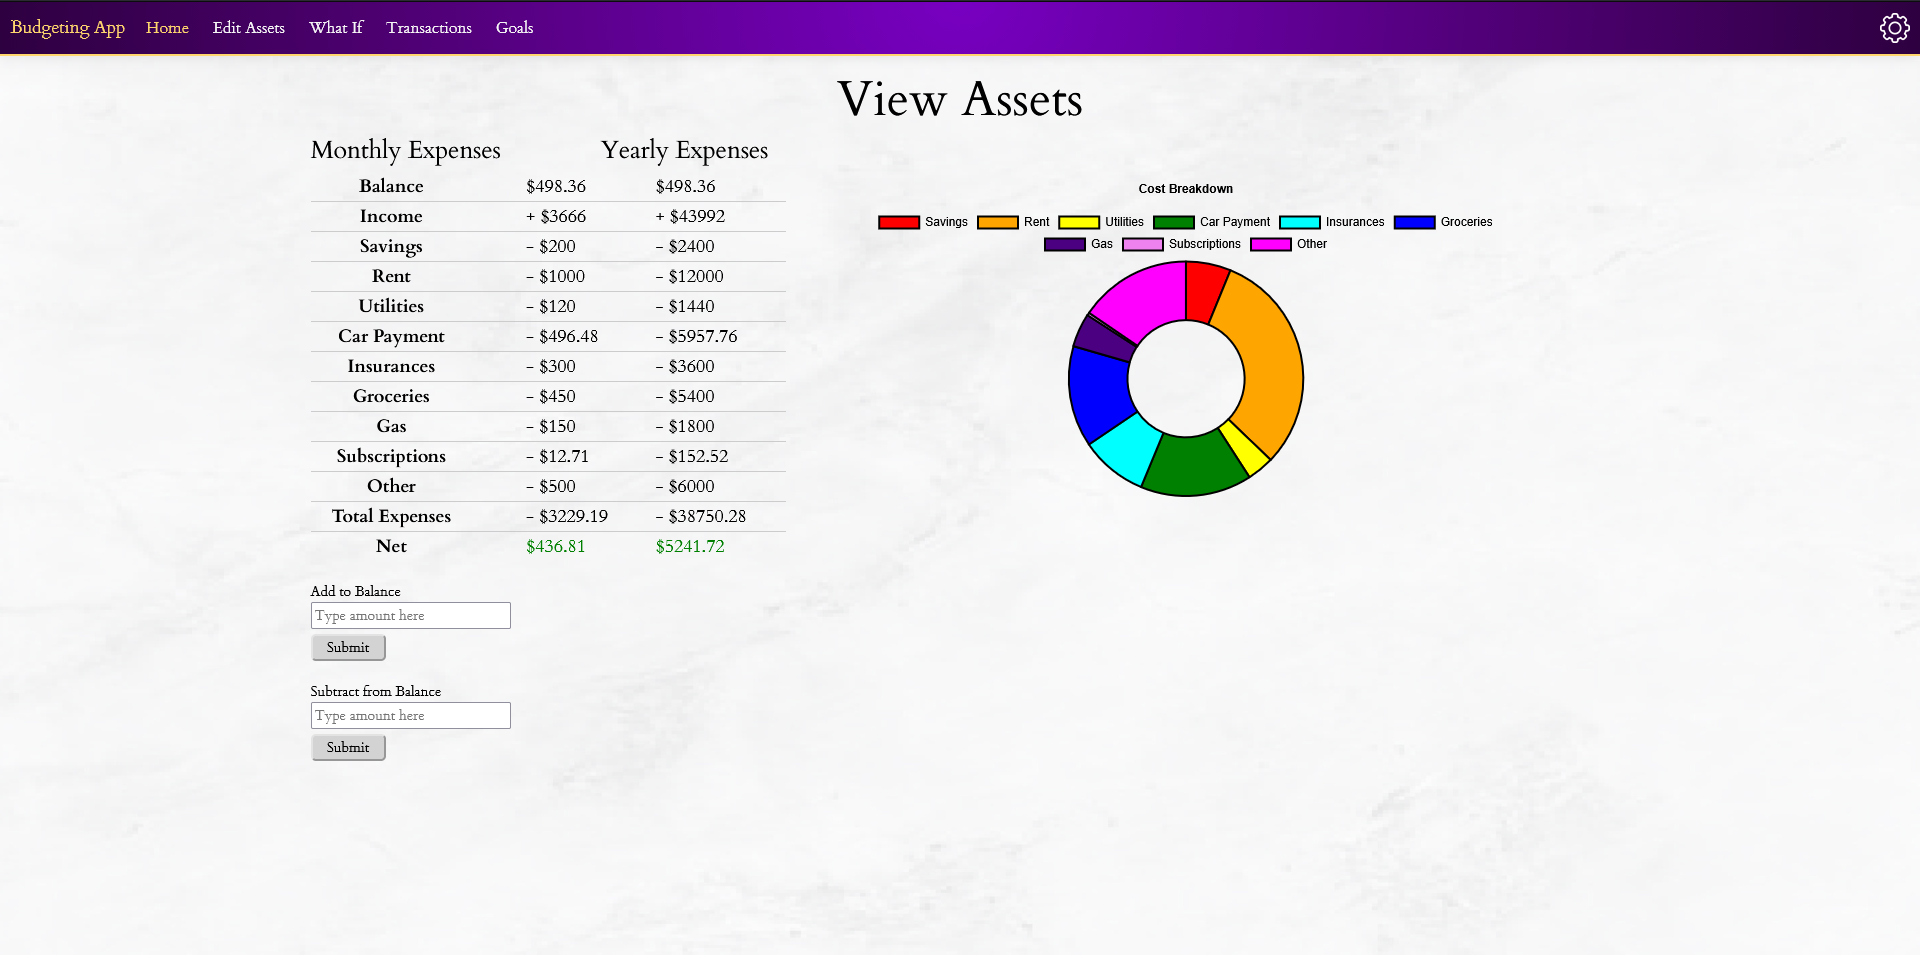
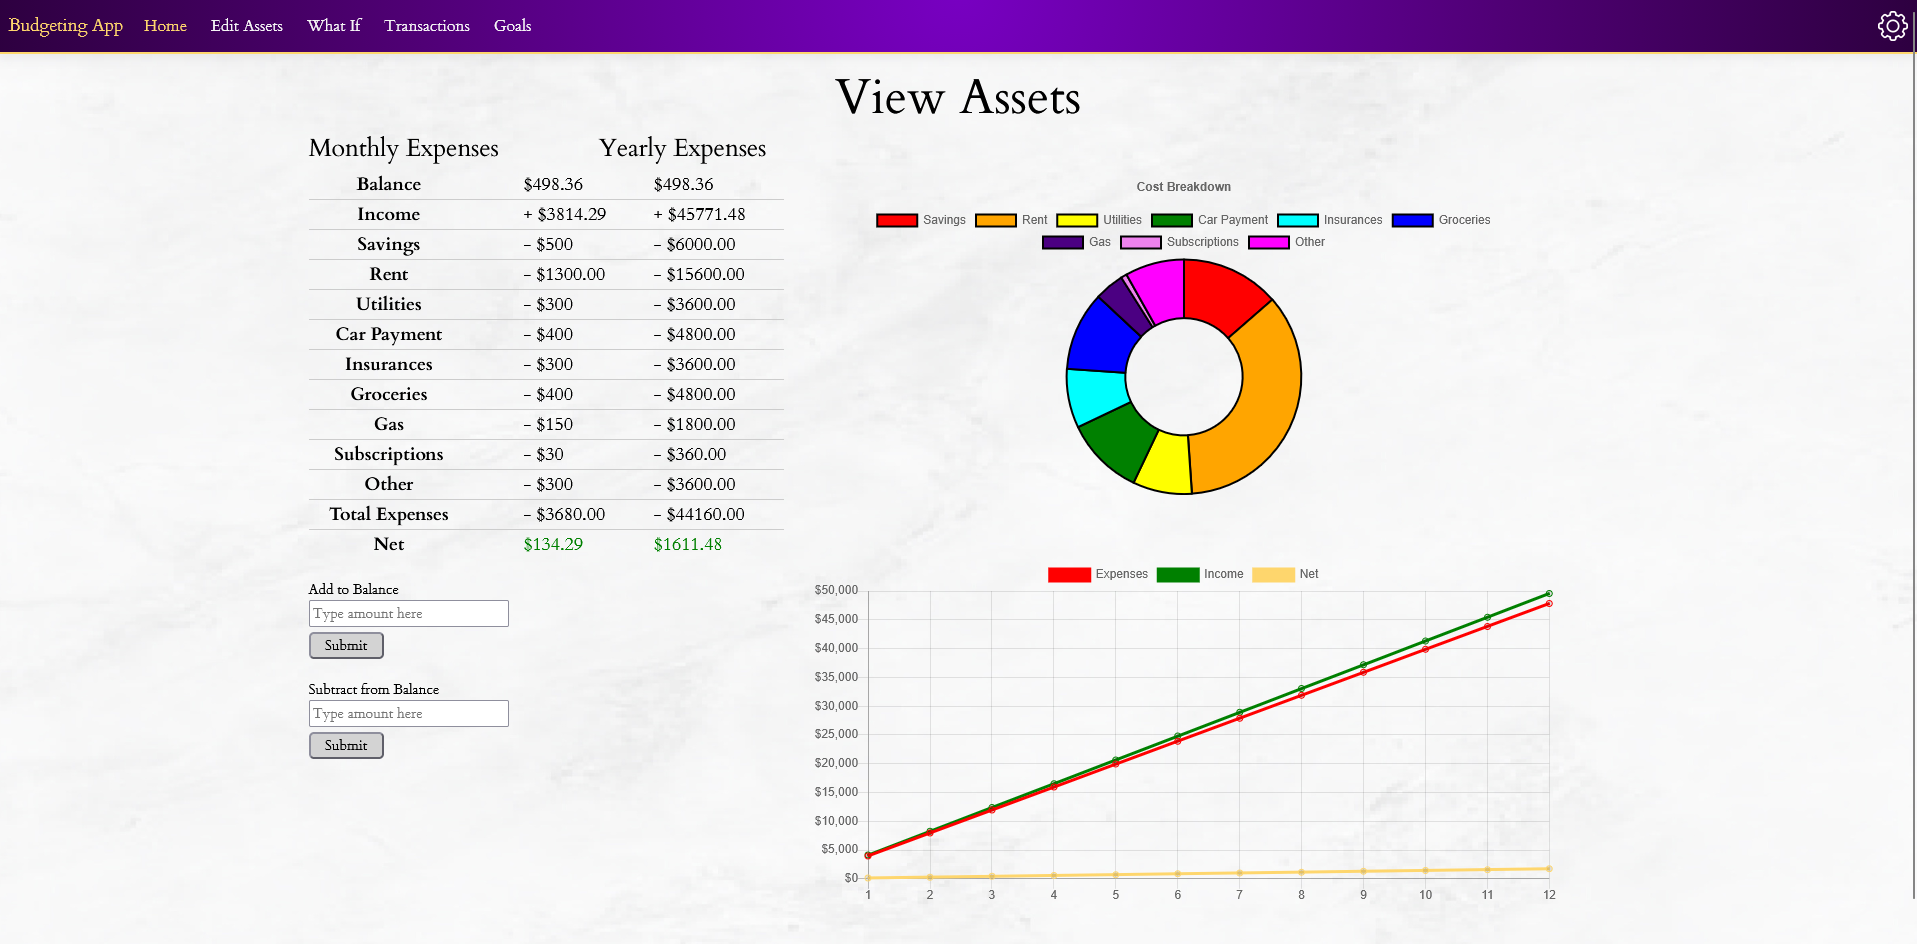
Add line graph to the dashboard

diff --git a/BudgetingApp/wwwroot/css/site.css b/BudgetingApp/wwwroot/css/site.css
@@ -117,6 +117,7 @@ body {
 
 .form-buttons {
     padding-top: 20px;
+    padding-right: 300px;
 }
 
 #assets-table {
@@ -377,4 +378,13 @@ body {
 #edit-goal-table td {
     padding-right: 35px;
     text-align: center;
+}
+
+.lower-content {
+    display: flex;
+}
+
+.assets-line-graph-group {
+    height: 350px;
+    width: 750px;
 }

diff --git a/BudgetingApp/Services/AssetService.cs b/BudgetingApp/Services/AssetService.cs
@@ -1,5 +1,4 @@
-using System;
-using BudgetingApp.Models;
+using BudgetingApp.Models;
 using Google.Cloud.Firestore;
 using Google.Cloud.Firestore.V1;
 
